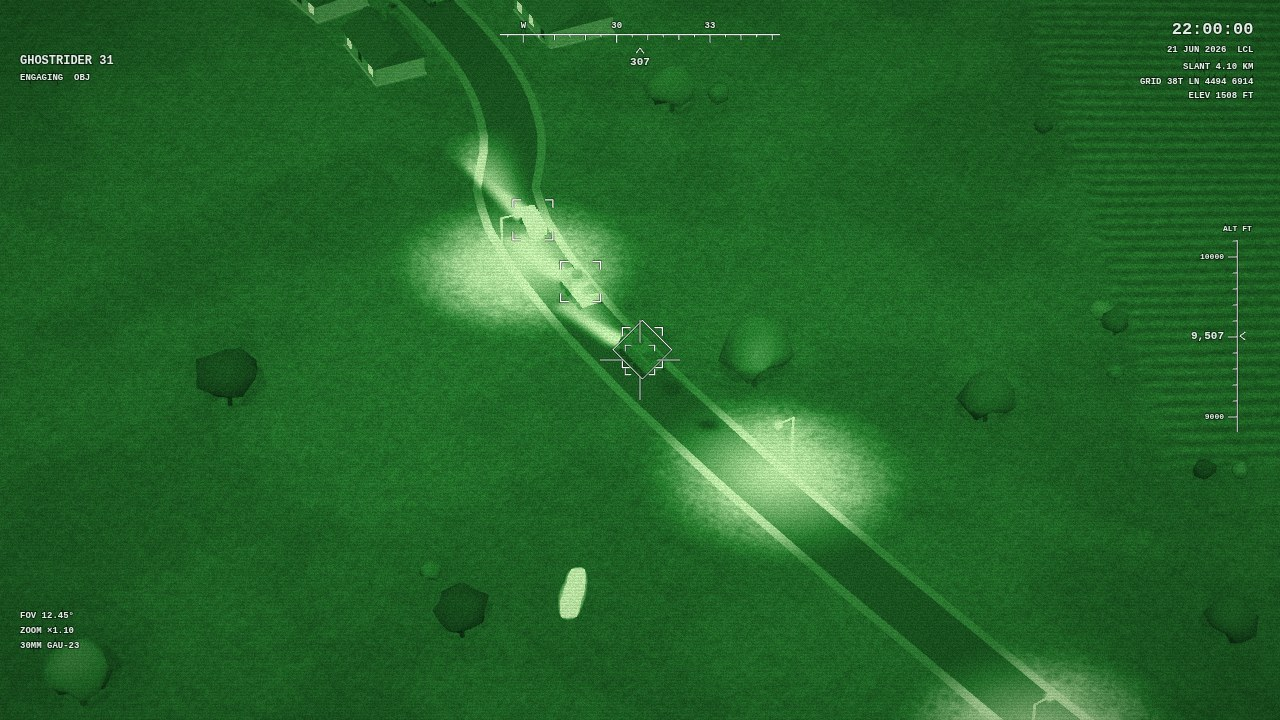
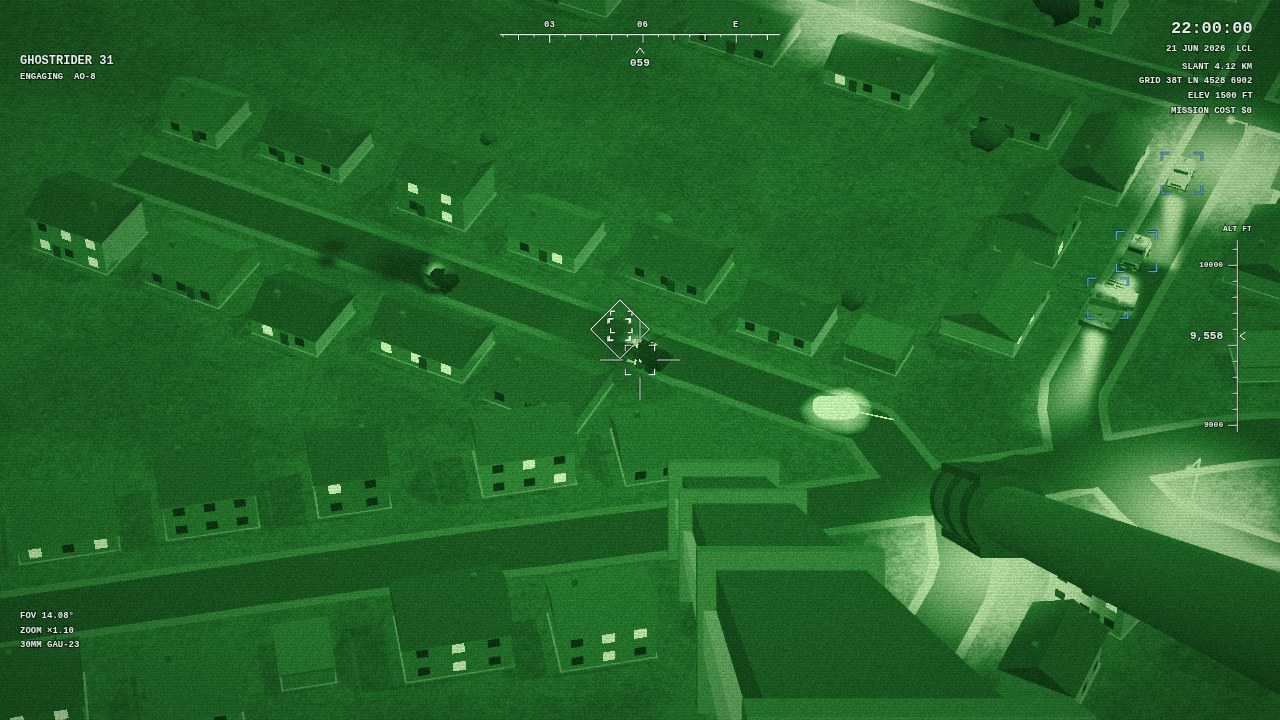
The Workshop preview and the README's screenshots made again; the review sheets fixed: a mode set on a sheet is set as by a click (the auto vision turned it back: the HUD sheet's night frames were white-hot), the HUD sheet picks the nearest track when none is round the start; README and CLAUDE.md br

diff --git a/tools/preview.spec.js b/tools/preview.spec.js
@@ -1,6 +1,7 @@
 // Review sheets for the current stage → test-results/: layout-maps.png (top-down maps of 4 seeds), layout-spots-<seed>.png
 // (stills of the town, a village, the station, a bridge, a lake, fields, a farm, the line), layout-town.png (the town in
 // four modes, day and night), layout-metrics.json (generation time, draw calls)
+// A mode set here is set as by a click ((SENSOR.manual = true, SENSOR).set): else the auto vision turns it back at the next step (white-hot at night).
 const { test } = require('../tests/support/harness');
 const fs = require('fs'), path = require('path');
 const OUT = path.join(__dirname, '..', 'test-results');
@@ -85,7 +86,7 @@ test('town in four modes', async ({ wp }) => {
     const W = 960, H = 540, c = document.createElement('canvas'); c.width = W * 2; c.height = H * 2; const g = c.getContext('2d'), [x, z] = LAYOUT.spots().town;
     CAM_TGT.set(x + 40, groundH(x + 40, z + 30), z + 30); CFG.zoom = 80; updateCamera();
     [['tv', 11], ['wh', 11], ['nv', 23.5], ['tv', 23.5]].forEach(([m, h], i) => {
-      CFG.fixedHour = h; SENSOR.set(m); updateEnvironment(); renderFrame(); g.drawImage(renderer.domElement, (i % 2) * W, (i >> 1) * H, W, H);
+      CFG.fixedHour = h; (SENSOR.manual = true, SENSOR).set(m); updateEnvironment(); renderFrame(); g.drawImage(renderer.domElement, (i % 2) * W, (i >> 1) * H, W, H);
       g.font = '600 18px Consolas, monospace'; g.fillStyle = '#000'; g.fillRect((i % 2) * W + 12, (i >> 1) * H + 12, 170, 30); g.fillStyle = '#fff'; g.fillText(`${SENSOR_LABEL[m]} ${h < 20 ? 'DAY' : 'NIGHT'}`, (i % 2) * W + 22, (i >> 1) * H + 33);
     });
     return c.toDataURL('image/png');
@@ -119,7 +120,8 @@ async function sheet(wp, shots, cols, name) {
   }, [shots, cols]));
 }
 const aimAtDummies = () => {
-  const t = TRACKS.filter(t => Math.hypot(t.obj.position.x - GUNSHIP.home.x, t.obj.position.z - GUNSHIP.home.z) < 300).sort((a, b) => (a.side === 'enemy') - (b.side === 'enemy'))[0];
+  const d = o => Math.hypot(o.obj.position.x - GUNSHIP.home.x, o.obj.position.z - GUNSHIP.home.z), near = TRACKS.filter(o => d(o) < 300);   // (the nearest track to the start, an ally first; none within 300 m: the nearest at all)
+  const t = (near.length ? near.sort((a, b) => (a.side === 'enemy') - (b.side === 'enemy')) : TRACKS.slice().sort((a, b) => d(a) - d(b)))[0];
   const e = TRACKS.find(o => o.side === 'enemy' && Math.hypot(o.obj.position.x - t.obj.position.x, o.obj.position.z - t.obj.position.z) < 160);
   const p = e ? t.obj.position.clone().lerp(e.obj.position, 0.5) : t.obj.position;
   GUNSHIP.look.copy(p); GUNSHIP.aim.copy(p); GUNSHIP.aimS.copy(p); GUNSHIP.vel.set(0, 0, 0); GUNSHIP.nextWander = 1e9; CFG.zoom = e ? 60 : 100; __t.sim(2);
@@ -130,7 +132,7 @@ test('hud in four modes', async ({ wp }) => {
   await wp.run(`(${aimAtDummies})()`);
   const shots = [];
   for (const [m, h, wpn] of [['tv', 11, 'g25'], ['wh', 11, 'h105'], ['nv', 23.5, 'hf'], ['bh', 23.5, 'rail']]) {
-    await wp.run(([m, h, wpn]) => { CFG.fixedHour = h; SENSOR.set(m); HUD.markModes(); ARMS.select(wpn); HUD.markArms(); updateEnvironment(); __t.sim(3); HUD.domT = 0; __t.render(); }, [m, h, wpn]);
+    await wp.run(([m, h, wpn]) => { CFG.fixedHour = h; (SENSOR.manual = true, SENSOR).set(m); HUD.markModes(); ARMS.select(wpn); HUD.markArms(); updateEnvironment(); __t.sim(3); HUD.domT = 0; __t.render(); }, [m, h, wpn]);
     shots.push((await wp.page.screenshot()).toString('base64'));
   }
   await sheet(wp, shots, 2, 'hud-modes.png');
@@ -185,7 +187,7 @@ test('units lineup', async ({ wp }) => {
   });
   const shots = [];
   for (const [m, zoom] of [['tv', 70], ['wh', 70], ['tv', 220], ['wh', 220]]) {
-    await wp.run(([m, zoom]) => { const c = window.__L.c; SENSOR.set(m); HUD.markModes(); updateEnvironment(); GUNSHIP.look.set(c[0], groundH(c[0], c[1]), c[1]); GUNSHIP.aim.copy(GUNSHIP.look); GUNSHIP.ctr.copy(GUNSHIP.look); GUNSHIP.aimS.copy(GUNSHIP.look); GUNSHIP.vel.set(0, 0, 0); CFG.zoom = zoom; __t.sim(2.5); __t.render(); }, [m, zoom]);
+    await wp.run(([m, zoom]) => { const c = window.__L.c; (SENSOR.manual = true, SENSOR).set(m); HUD.markModes(); updateEnvironment(); GUNSHIP.look.set(c[0], groundH(c[0], c[1]), c[1]); GUNSHIP.aim.copy(GUNSHIP.look); GUNSHIP.ctr.copy(GUNSHIP.look); GUNSHIP.aimS.copy(GUNSHIP.look); GUNSHIP.vel.set(0, 0, 0); CFG.zoom = zoom; __t.sim(2.5); __t.render(); }, [m, zoom]);
     shots.push((await wp.page.screenshot()).toString('base64'));
   }
   await sheet(wp, shots, 2, 'units-lineup.png');
@@ -201,8 +203,8 @@ test('patrols', async ({ wp }) => {
   await at(() => { const P = ALLIES.posts[0]; P.timer = 0; __t.sim(40, {}); CFG.zoom = 100; __follow(P.col.u[0].obj); __t.sim(0.05); __t.render(); });
   await at(() => { const h = ALLIES.helis[0]; h.timer = 0; for (let i = 0; i < 200 && h.state !== 'fly'; i++) __t.sim(0.5); __t.sim(4); CFG.zoom = 90; const up = h.pos.y - groundH(h.pos.x, h.pos.z); __follow({ x: h.pos.x - Math.cos(camAz) * up, z: h.pos.z - Math.sin(camAz) * up }); __t.sim(0.05); __t.render(); });
   await at(() => { const s = ALLIES.squads[0].m[1]; CFG.zoom = 230; __follow(s); __t.sim(0.05); __t.render(); });
-  await at(() => { CFG.fixedHour = 23.5; SENSOR.set('nv'); HUD.markModes(); updateEnvironment(); const o = LAYOUT.outposts[0]; CFG.zoom = 80; __follow({ x: o.x, z: o.z }); __t.sim(0.05); __t.render(); });
-  await at(() => { SENSOR.set('wh'); HUD.markModes(); updateEnvironment(); const P = ALLIES.posts[0]; CFG.zoom = 110; __follow(P.col.u[0].obj); __t.sim(0.05); __t.render(); });
+  await at(() => { CFG.fixedHour = 23.5; (SENSOR.manual = true, SENSOR).set('nv'); HUD.markModes(); updateEnvironment(); const o = LAYOUT.outposts[0]; CFG.zoom = 80; __follow({ x: o.x, z: o.z }); __t.sim(0.05); __t.render(); });
+  await at(() => { (SENSOR.manual = true, SENSOR).set('wh'); HUD.markModes(); updateEnvironment(); const P = ALLIES.posts[0]; CFG.zoom = 110; __follow(P.col.u[0].obj); __t.sim(0.05); __t.render(); });
   await sheet(wp, shots, 3, 'units-patrols.png');
 });
 
@@ -214,11 +216,11 @@ test('battle', async ({ wp }) => {
   const shots = [], snap = async () => shots.push((await wp.page.screenshot()).toString('base64')), at = async (fn, arg) => { await wp.run(fn, arg); await snap(); };
   await wp.run(`window.__shot = ${afterShot.toString()}`);
   await at(() => { __t.sim(5.5, { audio: true }); if (BATTLE.base) GUNSHIP.goTo({ n: 'obj', x: BATTLE.base.x, z: BATTLE.base.z }); for (let i = 0; i < 600 && GUNSHIP.state === 'transit'; i++) __t.sim(0.05, { audio: true }); __t.sim(1.5, { audio: true }); __shot(); });
-  await at(() => { __t.sim(8, { audio: true }); SENSOR.set('wh'); HUD.markModes(); updateEnvironment(); __shot(); });
-  await at(() => { __t.sim(25, { audio: true }); SENSOR.set('tv'); HUD.markModes(); updateEnvironment(); __shot(); });
-  await at(() => { __t.sim(60, { audio: true }); SENSOR.set('bh'); HUD.markModes(); updateEnvironment(); __shot(); });
-  await at(() => { __t.sim(40, { audio: true }); CFG.fixedHour = 23.5; SENSOR.set('nv'); HUD.markModes(); updateEnvironment(); __shot(); });
-  await at(() => { CFG.fixedHour = 11; SENSOR.set('tv'); HUD.markModes(); updateEnvironment(); __t.sim(30, { audio: true }); __t.sim(9); __t.render(); });   // the music has stopped: they leave
+  await at(() => { __t.sim(8, { audio: true }); (SENSOR.manual = true, SENSOR).set('wh'); HUD.markModes(); updateEnvironment(); __shot(); });
+  await at(() => { __t.sim(25, { audio: true }); (SENSOR.manual = true, SENSOR).set('tv'); HUD.markModes(); updateEnvironment(); __shot(); });
+  await at(() => { __t.sim(60, { audio: true }); (SENSOR.manual = true, SENSOR).set('bh'); HUD.markModes(); updateEnvironment(); __shot(); });
+  await at(() => { __t.sim(40, { audio: true }); CFG.fixedHour = 23.5; (SENSOR.manual = true, SENSOR).set('nv'); HUD.markModes(); updateEnvironment(); __shot(); });
+  await at(() => { CFG.fixedHour = 11; (SENSOR.manual = true, SENSOR).set('tv'); HUD.markModes(); updateEnvironment(); __t.sim(30, { audio: true }); __t.sim(9); __t.render(); });   // the music has stopped: they leave
   await sheet(wp, shots, 3, 'battle.png');
 });
 /* tracers: a moment with the most of the ground units' tracers in the frame, by day (TV), at night (NV) and in white-hot; the
@@ -230,7 +232,7 @@ test('tracers', async ({ wp }) => {
   const full = [], close = [];
   for (const [mode, hour] of [['tv', 11], ['nv', 23.5], ['wh', 11]]) {
     const at = await wp.run(([mode, hour]) => {
-      CFG.fixedHour = hour; SENSOR.manual = true; SENSOR.set(mode); HUD.markModes(); updateEnvironment(); __t.sim(8, { audio: true });
+      CFG.fixedHour = hour; (SENSOR.manual = true, SENSOR).set(mode); HUD.markModes(); updateEnvironment(); __t.sim(8, { audio: true });
       const mine = () => FX.tracers.items.filter(it => it.on && it.unit && BATTLE.inFrame(it.p));
       for (let i = 0; i < 2400; i++) { __t.sim(0.05, { audio: true }); if (mine().length >= 4) break; }
       __t.render(); const m = mine(); let x = 0, y = 0; for (const it of m) { const n = VIEW.ndc(it.p); x += n.x; y += n.y; }
@@ -275,7 +277,7 @@ test('weather', async ({ wp }) => {
   await wp.goto('?seed=11&hour=11&season=summer&weather=clear'); await wp.run(`(${fight})()`);
   await wp.run(() => { AA.nextGun = 0; for (let i = 0; i < 400 && !AA.bursts.length; i++) __t.sim(0.05, { audio: true }); __t.sim(0.75, { audio: true }); __t.render(); }); await snap();
   await wp.run(() => { const u = AA.source(true) || AA.source(false); AA.launch(u); __t.sim(1.5, { audio: true }); __t.render(); }); await snap();
-  await wp.run(() => { __t.sim(0.9, { audio: true }); SENSOR.set('wh'); HUD.markModes(); updateEnvironment(); __t.render(); }); await snap();
+  await wp.run(() => { __t.sim(0.9, { audio: true }); (SENSOR.manual = true, SENSOR).set('wh'); HUD.markModes(); updateEnvironment(); __t.render(); }); await snap();
   await sheet(wp, shots, 3, 'weather.png');
 });
 
@@ -296,7 +298,7 @@ test('lighting', async ({ wp }) => {
   await wp.goto('?seed=11&hud=0&weather=clear&clouds=0&hour=12&season=summer');
   await wp.run(() => { __t.sim(5.5, { audio: true }); if (BATTLE.base) GUNSHIP.goTo({ n: 'obj', x: BATTLE.base.x, z: BATTLE.base.z }); for (let i = 0; i < 600 && GUNSHIP.state === 'transit'; i++) __t.sim(0.05, { audio: true }); const n = BATTLE.stat.shots; for (let i = 0; i < 400 && BATTLE.stat.shots < n + 2; i++) __t.sim(0.05, { audio: true }); __t.sim(0.4, { audio: true }); __t.render(); }); await snap();
   await wp.run(() => { CFG.fixedHour = 23.5; updateEnvironment(); const n = BATTLE.stat.shots; for (let i = 0; i < 400 && BATTLE.stat.shots < n + 1; i++) __t.sim(0.05, { audio: true }); __t.sim(0.4, { audio: true }); __t.render(); }); await snap();
-  await wp.run(() => { SENSOR.set('wh'); updateEnvironment(); const n = BATTLE.stat.shots; for (let i = 0; i < 400 && BATTLE.stat.shots < n + 1; i++) __t.sim(0.05, { audio: true }); __t.sim(0.4, { audio: true }); __t.render(); }); await snap();
+  await wp.run(() => { (SENSOR.manual = true, SENSOR).set('wh'); updateEnvironment(); const n = BATTLE.stat.shots; for (let i = 0; i < 400 && BATTLE.stat.shots < n + 1; i++) __t.sim(0.05, { audio: true }); __t.sim(0.4, { audio: true }); __t.render(); }); await snap();
   await sheet(wp, shots, 3, 'lighting.png');
 });
 
@@ -309,8 +311,8 @@ test('night lights', async ({ wp }) => {
   await wp.run(`window.__follow = ${follow.toString()}`);
   await at(() => { CFG.zoom = 70; __t.sim(2); __t.render(); });
   await at(() => { const P = ALLIES.posts[0]; P.timer = 0; __t.sim(40, {}); CFG.zoom = 110; __follow(P.col.u[0].obj); __t.sim(0.05); __t.render(); });
-  await at(() => { SENSOR.set('nv'); HUD.markModes(); updateEnvironment(); CFG.zoom = 150; __t.sim(0.05); __t.render(); });
-  await at(() => { SENSOR.set('tv'); HUD.markModes(); updateEnvironment(); const h = ALLIES.helis[0]; h.timer = 0; for (let i = 0; i < 200 && h.state !== 'fly'; i++) __t.sim(0.5); __t.sim(4); h.strobe = 0; CFG.zoom = 110; const up = h.pos.y - groundH(h.pos.x, h.pos.z); __follow({ x: h.pos.x - Math.cos(camAz) * up, z: h.pos.z - Math.sin(camAz) * up }); __t.sim(0.05); __t.render(); });
+  await at(() => { (SENSOR.manual = true, SENSOR).set('nv'); HUD.markModes(); updateEnvironment(); CFG.zoom = 150; __t.sim(0.05); __t.render(); });
+  await at(() => { (SENSOR.manual = true, SENSOR).set('tv'); HUD.markModes(); updateEnvironment(); const h = ALLIES.helis[0]; h.timer = 0; for (let i = 0; i < 200 && h.state !== 'fly'; i++) __t.sim(0.5); __t.sim(4); h.strobe = 0; CFG.zoom = 110; const up = h.pos.y - groundH(h.pos.x, h.pos.z); __follow({ x: h.pos.x - Math.cos(camAz) * up, z: h.pos.z - Math.sin(camAz) * up }); __t.sim(0.05); __t.render(); });
   await at(() => { const o = LAYOUT.outposts[0]; CFG.zoom = 60; __follow({ x: o.x, z: o.z }); __t.sim(0.05); __t.render(); });
   await wp.goto('?hour=23.5&seed=11&season=summer&weather=clear&clouds=0&mode=tv&aa=0');
   await wp.run(`window.__follow = ${follow.toString()}`);
@@ -332,8 +334,8 @@ test('big guns', async ({ wp }) => {
   await at(() => { __slew(-120); __t.sim(0.05); __t.render(); });
   await at(() => { __slew(0); CFG.zoom = 60; __t.sim(2); __t.render(); });
   await at(() => { CFG.zoom = 150; __t.sim(2); __t.render(); CFG.zoom = 100; __t.sim(2); });
-  await at(() => { __slew(0); for (let i = 0; i < 5; i++) { GUNS.shot('h105'); __t.sim(0.6); } SENSOR.set('wh'); HUD.markModes(); updateEnvironment(); __t.sim(0.05); __t.render(); });
-  await at(() => { SENSOR.set('tv'); HUD.markModes(); CFG.fixedHour = 23.5; updateEnvironment(); GUNS.shot('rail'); __t.sim(0.03); __t.render(); });
+  await at(() => { __slew(0); for (let i = 0; i < 5; i++) { GUNS.shot('h105'); __t.sim(0.6); } (SENSOR.manual = true, SENSOR).set('wh'); HUD.markModes(); updateEnvironment(); __t.sim(0.05); __t.render(); });
+  await at(() => { (SENSOR.manual = true, SENSOR).set('tv'); HUD.markModes(); CFG.fixedHour = 23.5; updateEnvironment(); GUNS.shot('rail'); __t.sim(0.03); __t.render(); });
   for (const id of ['h105', 'rail']) {
     await wp.goto(`?hour=11&seed=11&season=summer&weather=clear&clouds=0&mode=tv&weapons=${id}&auto=0&aa=0`);
     await at((id) => {
@@ -448,9 +450,9 @@ test('music', async ({ wp }) => {
   await wp.run(`window.__kick = ${onKick.toString()}`);
   await at(() => { __t.sim(5.5, { audio: true }); if (BATTLE.base) GUNSHIP.goTo({ n: 'obj', x: BATTLE.base.x, z: BATTLE.base.z }); for (let i = 0; i < 1200 && GUNSHIP.state === 'transit'; i++) __t.sim(0.05, { audio: true }); __t.sim(12, { audio: true }); __kick(); });
   await at(() => { __t.sim(0.4, { audio: true }); __t.render(); });
-  await at(() => { CFG.fixedHour = 23.5; SENSOR.set('wh'); HUD.markModes(); updateEnvironment(); __t.sim(3, { audio: true }); __kick(); });
+  await at(() => { CFG.fixedHour = 23.5; (SENSOR.manual = true, SENSOR).set('wh'); HUD.markModes(); updateEnvironment(); __t.sim(3, { audio: true }); __kick(); });
   await at(() => { __t.sim(0.4, { audio: true }); __t.render(); });
-  await at(() => { CFG.fixedHour = 11; SENSOR.set('tv'); HUD.markModes(); updateEnvironment(); const n = BATTLE.stat.drops; for (let i = 0; i < 1600 && BATTLE.stat.drops === n; i++) __t.sim(0.05, { audio: true, pauses: true }); __t.sim(0.3, { audio: true, pauses: true }); __t.render(); });
+  await at(() => { CFG.fixedHour = 11; (SENSOR.manual = true, SENSOR).set('tv'); HUD.markModes(); updateEnvironment(); const n = BATTLE.stat.drops; for (let i = 0; i < 1600 && BATTLE.stat.drops === n; i++) __t.sim(0.05, { audio: true, pauses: true }); __t.sim(0.3, { audio: true, pauses: true }); __t.render(); });
   await at(() => { __t.sim(0.9, { audio: true, pauses: true }); __t.render(); });
   console.log('music stat', JSON.stringify(await wp.run(() => BATTLE.stat)));
   await sheet(wp, shots, 2, 'music.png');
@@ -527,7 +529,7 @@ test('vehicles close', async ({ wp }) => {
     window.__raise = () => { for (const g of window.__V) { const m = g.getObjectByName('mg'); if (!m || g !== window.__V[0] && g !== window.__V[1] && g !== window.__V[2]) continue; m.parent.updateWorldMatrix(true, false); const v = m.parent.worldToLocal(camera.position.clone()).sub(m.position); m.rotation.y = Math.atan2(-v.z, v.x); m.rotation.z = Math.atan2(v.y, Math.hypot(v.x, v.z)); } };
   });
   const shots = [];
-  const look = async (i, zoom, mode) => { await wp.run(([i, zoom, mode]) => { const S = LAYOUT.sites[0], p = i < 0 ? { x: S.x, z: S.z } : window.__V[i].position; SENSOR.manual = true; SENSOR.set(mode); HUD.markModes(); updateEnvironment(); GUNSHIP.look.set(p.x, groundH(p.x, p.z), p.z); GUNSHIP.aim.copy(GUNSHIP.look); GUNSHIP.ctr.copy(GUNSHIP.look); GUNSHIP.aimS.copy(GUNSHIP.look); GUNSHIP.vel.set(0, 0, 0); GUNSHIP.nextWander = 1e9; CFG.zoom = zoom; __t.sim(2.5); window.__raise(); __t.render(); }, [i, zoom, mode]); shots.push((await wp.page.screenshot()).toString('base64')); };
+  const look = async (i, zoom, mode) => { await wp.run(([i, zoom, mode]) => { const S = LAYOUT.sites[0], p = i < 0 ? { x: S.x, z: S.z } : window.__V[i].position; (SENSOR.manual = true, SENSOR).set(mode); HUD.markModes(); updateEnvironment(); GUNSHIP.look.set(p.x, groundH(p.x, p.z), p.z); GUNSHIP.aim.copy(GUNSHIP.look); GUNSHIP.ctr.copy(GUNSHIP.look); GUNSHIP.aimS.copy(GUNSHIP.look); GUNSHIP.vel.set(0, 0, 0); GUNSHIP.nextWander = 1e9; CFG.zoom = zoom; __t.sim(2.5); window.__raise(); __t.render(); }, [i, zoom, mode]); shots.push((await wp.page.screenshot()).toString('base64')); };
   await look(-1, 250, 'tv'); await look(-1, 250, 'wh');
   for (let i = 0; i < 6; i++) await look(i, 700, 'tv');
   // a BTR firing up at the aircraft from its roof machine gun (a real unit: the gun turns up, the tracers leave its muzzle)
@@ -536,7 +538,7 @@ test('vehicles close', async ({ wp }) => {
     v.obj.position.set(S.x + 4, groundH(S.x + 4, S.z), S.z); v.yaw = 2.2; v.obj.rotation.set(0, -v.yaw, 0, 'YZX'); v.turret.rotation.y = 0.8;
     v.aaUntil = T + 99; AA.bursts.push({ u: v, wait: 0, n: 400, tick: 0, col: 0xa8ff8a, ox: 16, oy: 6 }); window.__raise = () => {};
   });
-  const fire = async (zoom, mode) => { await wp.run(([zoom, mode]) => { const v = window.__btr; SENSOR.set(mode); HUD.markModes(); updateEnvironment(); GUNSHIP.look.copy(v.pos); GUNSHIP.aim.copy(v.pos); GUNSHIP.ctr.copy(v.pos); GUNSHIP.aimS.copy(v.pos); CFG.zoom = zoom; for (let i = 0; i < 40; i++) { v.aimMG(0.05); __t.sim(0.05); } __t.render(); }, [zoom, mode]); shots.push((await wp.page.screenshot()).toString('base64')); };
+  const fire = async (zoom, mode) => { await wp.run(([zoom, mode]) => { const v = window.__btr; (SENSOR.manual = true, SENSOR).set(mode); HUD.markModes(); updateEnvironment(); GUNSHIP.look.copy(v.pos); GUNSHIP.aim.copy(v.pos); GUNSHIP.ctr.copy(v.pos); GUNSHIP.aimS.copy(v.pos); CFG.zoom = zoom; for (let i = 0; i < 40; i++) { v.aimMG(0.05); __t.sim(0.05); } __t.render(); }, [zoom, mode]); shots.push((await wp.page.screenshot()).toString('base64')); };
   await fire(250, 'tv'); await fire(700, 'tv'); await fire(250, 'wh'); await fire(700, 'bh');
   await sheet(wp, shots, 4, 'vehicles-close.png');
 });
@@ -553,7 +555,7 @@ test('helis close', async ({ wp }) => {
     });
   });
   const shots = [];
-  const look = async (i, zoom, mode) => { await wp.run(([i, zoom, mode]) => { const S = LAYOUT.sites[0], p = i < 0 ? { x: S.x, z: S.z } : window.__V[i].position; SENSOR.manual = true; SENSOR.set(mode); HUD.markModes(); updateEnvironment(); GUNSHIP.look.set(p.x, groundH(p.x, p.z), p.z); GUNSHIP.aim.copy(GUNSHIP.look); GUNSHIP.ctr.copy(GUNSHIP.look); GUNSHIP.aimS.copy(GUNSHIP.look); GUNSHIP.vel.set(0, 0, 0); GUNSHIP.nextWander = 1e9; CFG.zoom = zoom; __t.sim(2.5); __t.render(); }, [i, zoom, mode]); shots.push((await wp.page.screenshot()).toString('base64')); };
+  const look = async (i, zoom, mode) => { await wp.run(([i, zoom, mode]) => { const S = LAYOUT.sites[0], p = i < 0 ? { x: S.x, z: S.z } : window.__V[i].position; (SENSOR.manual = true, SENSOR).set(mode); HUD.markModes(); updateEnvironment(); GUNSHIP.look.set(p.x, groundH(p.x, p.z), p.z); GUNSHIP.aim.copy(GUNSHIP.look); GUNSHIP.ctr.copy(GUNSHIP.look); GUNSHIP.aimS.copy(GUNSHIP.look); GUNSHIP.vel.set(0, 0, 0); GUNSHIP.nextWander = 1e9; CFG.zoom = zoom; __t.sim(2.5); __t.render(); }, [i, zoom, mode]); shots.push((await wp.page.screenshot()).toString('base64')); };
   await look(-1, 250, 'tv'); await look(-1, 250, 'wh');
   for (let i = 0; i < 4; i++) await look(i, 520, 'tv');
   await look(0, 520, 'wh'); await look(2, 520, 'bh');
@@ -629,10 +631,10 @@ test('missiles and flares', async ({ wp }) => {
   });
   await snap();
   await wp.run(() => __t.sim(0.25, { audio: true })); await snap();
-  await wp.run(() => { SENSOR.set('wh'); HUD.markModes(); AA.drop(6); for (let i = 0; i < 3000 && !BATTLE.missiles.length; i++) __t.sim(0.05, { audio: true }); __t.sim(0.4, { audio: true }); }); await snap();
-  await wp.run(() => { SENSOR.set('tv'); HUD.markModes(); const u = UNITS.find(o => o.side === 'enemy' && o.alive && o.kind !== 'struct' && o.kind !== 'heli' && o.kind !== 'inf') || UNITS.find(o => o.side === 'enemy' && o.alive && o.kind === 'inf'); AA.launch(u); __t.sim(1.2, { audio: true }); }); await snap();
-  await wp.run(() => { SENSOR.set('nv'); HUD.markModes(); for (let i = 0; i < 3000 && !BATTLE.missiles.length; i++) __t.sim(0.05, { audio: true }); __t.sim(0.5, { audio: true }); }); await snap();
-  await wp.run(() => { SENSOR.set('tv'); HUD.markModes(); CFG.zoom = 200; for (let i = 0; i < 3000 && !BATTLE.missiles.some(m => m.p > 0.45 && m.p < 0.7); i++) __t.sim(0.05, { audio: true }); }); await snap();   // (zoomed in: the body and its flame)
+  await wp.run(() => { (SENSOR.manual = true, SENSOR).set('wh'); HUD.markModes(); AA.drop(6); for (let i = 0; i < 3000 && !BATTLE.missiles.length; i++) __t.sim(0.05, { audio: true }); __t.sim(0.4, { audio: true }); }); await snap();
+  await wp.run(() => { (SENSOR.manual = true, SENSOR).set('tv'); HUD.markModes(); const u = UNITS.find(o => o.side === 'enemy' && o.alive && o.kind !== 'struct' && o.kind !== 'heli' && o.kind !== 'inf') || UNITS.find(o => o.side === 'enemy' && o.alive && o.kind === 'inf'); AA.launch(u); __t.sim(1.2, { audio: true }); }); await snap();
+  await wp.run(() => { (SENSOR.manual = true, SENSOR).set('nv'); HUD.markModes(); for (let i = 0; i < 3000 && !BATTLE.missiles.length; i++) __t.sim(0.05, { audio: true }); __t.sim(0.5, { audio: true }); }); await snap();
+  await wp.run(() => { (SENSOR.manual = true, SENSOR).set('tv'); HUD.markModes(); CFG.zoom = 200; for (let i = 0; i < 3000 && !BATTLE.missiles.some(m => m.p > 0.45 && m.p < 0.7); i++) __t.sim(0.05, { audio: true }); }); await snap();   // (zoomed in: the body and its flame)
   await sheet(wp, shots, 2, 'missiles-flares.png');
 });
 
@@ -668,7 +670,7 @@ test('reactions', async ({ wp }) => {
     __t.sim(1);
   });
   const scene = async (mode) => {
-    await wp.run((mode) => { SENSOR.set(mode); HUD.markModes(); const v = new Vehicle('apc', 'enemy'); v.obj.position.copy(__at(-6, 4)); window.__v = v; let n = BATTLE.stat.cooks; hurt(v, 1e4); for (let i = 0; i < 200 && BATTLE.stat.cooks === n; i++) __steps(1); __steps(2); }, mode); await snap();   // a pop
+    await wp.run((mode) => { (SENSOR.manual = true, SENSOR).set(mode); HUD.markModes(); const v = new Vehicle('apc', 'enemy'); v.obj.position.copy(__at(-6, 4)); window.__v = v; let n = BATTLE.stat.cooks; hurt(v, 1e4); for (let i = 0; i < 200 && BATTLE.stat.cooks === n; i++) __steps(1); __steps(2); }, mode); await snap();   // a pop
     if (mode === 'tv') {
       await wp.run(() => { COOK.toss = 1; const v = new Vehicle('tank', 'enemy'); v.obj.position.copy(__at(10, -6)); const y0 = v.turret.position.y; hurt(v, 1e4); for (let i = 0; i < 300 && !(v.turret.position.y - y0 > 0.9); i++) __steps(1); COOK.toss = 0.35; }); await snap();   // the turret thrown up
     }

diff --git a/CLAUDE.md b/CLAUDE.md
@@ -377,17 +377,17 @@ The stages ended at 18: later changes are no longer numbered — each is a bulle
   combat; in a fight it works one zone and leaves it only in a quiet part of the music (`ZONE`), the enemy coming to it. Per-weapon zoom. Always looking down: no sky in frame.
 - **Vision**: TV, WH, BH, NVG; a clickable switch on the HUD that is NOT persisted; a property for the default (auto = TV by day, WH at night — the default / autonv = TV by
   day, NVG at night / tv / wh / bh / nv).
-- **HUD**: mode label, callsign (property, default `GHOSTRIDER 31`), compass, altitude ladder, PC clock, the money spent (optional), crosshair per weapon;
+- **HUD**: mode label, callsign (property, default `GHOSTRIDER 31`), compass, altitude ladder, PC clock, the mission cost (optional), a reticle per weapon (the bombs' and the APKWS's drawn on the ground);
   at the bottom a clickable selector of the enabled weapons with cosmetic ammo / reload, kept `CFG.hudBottom` (48 px) above the bottom edge for the Windows taskbar. Screen-fixed corner brackets: allies blue,
   enemies white.
 - **Map**: ~2×2 km generated at start under the splash; seed property (0 = new each launch). Gentle hills, lakes, roads with
   bridges, rail, towns, fields, forests. Ordinary buildings are indestructible; only enemy base structures blow up.
 - **Combat**: allies always exist, losses replaced off screen. Enemies appear with music (5 s of sound), always off screen: columns
-  and a base, the camera goes to the base. Music stops, a 5 s hold, then fire ceases and enemies leave the frame and vanish; a base is removed
+  and a base; the camera stays and the enemy comes to it (the base visited on a transit allowed in a quiet part). Music stops, a 5 s hold, then fire ceases and enemies leave the frame and vanish; a base is removed
   only out of view. Both sides fight each other. Five unit types per side with different models: infantry, tank, APC, car,
   helicopter. Infantry vanish in a dust puff at once; vehicles lie as wrecks, then sink into the ground.
 - **Weapons** (one active; each a property, no limit; first three on by default; optional auto-switching, a click selects a weapon and
-  auto resumes 30 s later, or 3 s after the click once nothing that weapon may hit is left within 250 m of the sensor's point; only fires at what the table allows, allies handle the rest; guns land at once, missiles / bombs on the next beat with a deadline):
+  auto resumes 30 s later, or 3 s after the click once nothing that weapon may hit is left within 250 m of the sensor's point; only fires at what the table allows, allies handle the rest (a blast hurts any enemy round it); guns land at once, missiles / bombs on a beat near the end of their flight, with a deadline):
 
 | Weapon | Infantry | Car | APC | Tank | Helicopter | Beat |
 |---|---|---|---|---|---|---|
@@ -432,12 +432,12 @@ The stages ended at 18: later changes are no longer numbered — each is a bulle
 | `js/weapons.js` | `WEAPONS` (name, zoom factor, reticle, `hits` = the kinds it may hit, `band` = the beat that fires it, `use`, cosmetic rounds / magazine / reload), `ARMS` (the selected weapon, ammunition state) |
 | `js/lights.js` | `LAMPS`: the lamps are additive sprites (one pool refilled every frame); their light is a **map** drawn from above into one 2048² texture round `CAM_TGT` (`LAMP_HALF` m each way, `LAMPS.draw()` from `SENSOR.render`), which every Phong material adds as albedo × map at its world position (`sensorHook`: `uLampMap`, `uLampRect`, `uCamW`). Headlights (a cone, cut at the vehicle ahead), helicopter navigation lights, searchlights on the outposts' towers and the enemy base's bunkers / mast, yard lamps (`OP_LAMPS`, a lamp over each enemy tent / dump), street lamps along paved roads (`LAYOUT.lamps`, poles built in `structures.js`). On from dusk (the laser's red glow at `BATTLE.lasHit`: day and night); nothing on the thermal sensor |
 | `js/guns.js` | `GUNS`: the barrels of the 105 mm and the railgun (each while enabled; two sit side by side along the fuselage, `GUN_MOUNTS`) at the bottom right. A scene of its own with a 40° lens, drawn into `SENSOR.rt` after the world over a cleared depth (`GUNS.render` from `SENSOR.render`), so the post pass treats it like the rest. Its world is fixed to the aircraft (the view at the orbit's centre `CAM_CTR`); its lens turns as the sensor slews off the centre, so looking down lifts the barrels, far off they leave the frame. Lit by the sun / moon and sky turned into that frame; its materials skip the lamps' map (`userData.noLamp`, `customProgramCacheKey 'gun'`). On every shot (`BATTLE.fire` → `GUNS.shot`) recoil, a flash with a point light, gases from the brake; the railgun's slot flashes and glows as it recharges; barrels heat up per shot (thermal). `GUNS.muzzleAt` puts a shot's start on the line of sight through the muzzle on the screen (`BATTLE.muzzle`), so tracers leave the barrel; the guns with no barrel drawn start theirs through a mount just outside the frame's right edge (`GUN_SIDE`, `GUNS.sideAt`, 32 m out: `GUN_SIDE_D`). Programs compiled at start (`GUNS.warm`) |
-| `js/battle.js` | `BATTLE`: the fight's life cycle (start on arming: a base on one of `LAYOUT.sites` + garrison, the camera stays and the first wave comes to it; waves of columns / squads / helicopters out of sight; stand-down: retreat, removal out of sight), units shooting each other (`FIRE`, `VS`), the gunship's fire on the beat (`GUN`: guns, missiles landing on the next beat, laser, railgun; `strike` damages only `hits`; fires only at what is under the reticle), the camera in a fight, the auto-switching (`PREF`), `WRECKS` (cooling stages, sinking), the base's structures (`BASE_MODELS`, `BASE_PLAN`), `BATTLE.log` / `BATTLE.stat` for the tests |
+| `js/battle.js` | `BATTLE`: the fight's life cycle (start on arming: a base on one of `LAYOUT.sites` + garrison, the camera stays and the first wave comes to it; waves of columns / squads / helicopters out of sight; stand-down: retreat, removal out of sight), units shooting each other (`FIRE`, `VS`), the gunship's fire on the beat (`GUN`: guns, missiles and bombs landing on a beat, the CBU-97's submunitions, laser, railgun; `strike` damages what the weapon `hits`, its blast (`SPLASH`) any enemy round it; fires only at what is under the reticle; `doomed`: nothing wasted on what a missile in flight will kill; `spent`: the mission cost), the camera in a fight, the auto-switching (`PREF`), `WRECKS` (cooling stages, sinking), the base's structures (`BASE_MODELS`, `BASE_PLAN`), `BATTLE.log` / `BATTLE.stat` for the tests |
 | `js/weather.js` | `WEATHER`: the kind (clear / rain / snow / fog; auto draws one for the season every 8–15 min) fading in `WEATHER.k`, `light()` (overcast sun, grey haze, fog distances; called from `updateEnvironment`), rain / snow streaks (`drops`, a cold `Tracers` pool round the sensor's point), clouds (clusters of soft sprites wrapped in a square round the sensor's point, filled into `fx.live` + `SpriteFX.flush`; none in a fight); `AA`: tracer bursts and missiles from enemies near the sensor's point up past the lens, flares in reply (`FX.flare`), looks only |
 | `js/audio.js` | `AUD` (level, `heavy`, the arming latch: `combat`, `holding`, `fighting`), `BANDS` beat detection → `BATTLE.onBeat(band, strength)` (units, AA, gunship), `updateArming`, the music's shape (`drive`, `calm` quiet parts, drops → `BATTLE.onDrop`), the tempo (`tempoKick` → `bpm`, `tempo`), the demo beat (`?demo=124` with a quiet part and silent bars, `&pause=0`) |
 | `js/gunship.js` | `GUNSHIP`: districts (towns, spots, farms, roads in the country; `GS_MARGIN` from the edge), a random start, the left orbit, the slew (eased aim + critically damped spring, its stiffness on a target set by the music: `SLEW_MUSIC`, `slewK`), transits (smootherstep, zoom-out arc), `track(p)` for combat; `TRACKS` (what the HUD brackets); the outposts are districts too |
-| `js/hud.js` | `HUD`: a 2D canvas over the picture (compass, altitude ladder, clock, grid, reticle per weapon, fixed-size brackets) + DOM for the clicks (`#modes`, `#arms`); sizes follow window height × `CFG.hudScale` (`--hs` in CSS) |
-| `js/main.js` | scene init, camera (the aircraft circles `CAM_CTR`, the sensor looks at `CAM_TGT`: slewing turns the line of sight, the lens keeps the frame's size at any range; `clampFrame`: the whole frame stays on the map, measured down to `MAP.lo`), `VIEW`, `updateEnvironment`, `fitShadow`, main loop |
+| `js/hud.js` | `HUD`: a 2D canvas over the picture (compass, altitude ladder, clock, grid, the mission cost, reticle per weapon (the GBU-39's, CBU-97's and APKWS's drawn on the ground: `onGround`), fixed-size brackets, the locks) + DOM for the clicks (`#modes`, `#arms`); its words stamped from a cache (`HUD.word`); sizes follow window height × `CFG.hudScale` (`--hs` in CSS) |
+| `js/main.js` | scene init, camera (the aircraft circles `CAM_CTR`, the sensor looks at `CAM_TGT`: slewing turns the line of sight, the lens keeps the frame's size at any range; `clampFrame`: the whole frame stays on the map, measured down to `MAP.lo`), `VIEW`, `updateEnvironment`, `fitShadow`, main loop (`step` per 0.05 s at most; `renderFrame` once a frame: `frameFx` builds the effects' buffers and the lamps) |
 | `js/properties.js` | `WE_PROPERTIES`: generated from `project.json` by `tools/gen_properties.py` — never edit by hand; after changing a property in `project.json` run `python tools/gen_properties.py` (a test checks they agree) |
 | `js/settings.js` | the settings drawer in a normal browser (not in WE, not under automated tests unless `?cfg`): every property through `wallpaperPropertyListener`, kept in `localStorage`; the demo beat and an audio file player (`FILE_AUDIO`) for music |
 | `project.json` | Wallpaper Engine: title, description, `preview.gif`, `supportsaudioprocessing`, the properties (orders by group: 1–9 sensor & HUD, 10–19 time & weather, 20–29 weapons `w_<id>`, 30–39 fight & music, 40–49 map & quality). `applyUserProperties` (main.js) handles each; the URL's test parameters win; a new seed reloads |

diff --git a/README.md b/README.md
@@ -52,8 +52,8 @@ fullscreen apps by default.
   helicopters, and builds a base on a cleared site. The camera stays where it is and they come to it; it moves to the base or
   another fight only in a quiet part of the music. They keep coming: a wrecked base is soon rebuilt, and when nothing is left
   in view the next ones are called in at once.
-- **The allies** are always out: garrisons in walled outposts, patrols, helicopters; in a fight they drive to the base
-  and fight it out. Both sides shoot at each other.
+- **The allies** are always out: garrisons in walled outposts, patrols, helicopters; in a fight the garrisons sortie to the
+  enemy base, and their reinforcements come where the sensor looks. Both sides shoot at each other.
 - **The gunship fires on the beat**, only at what is under the reticle and only at what its weapon may hit:
 
 | Weapon | Infantry | Car | APC | Tank | Helicopter | Beat |
@@ -133,7 +133,7 @@ fullscreen apps by default.
 
 ## Properties
 
-Sensor & HUD (vision mode, zoom, orbit speed, transits, callsign, HUD scale and bottom space, the money spent), time & weather (PC clock or
+Sensor & HUD (vision mode, zoom, orbit speed, transits, callsign, HUD scale and bottom space, the mission cost), time & weather (PC clock or
 a fixed hour, season, weather, clouds), every weapon and the automatic switching, the fight (audio sensitivity, how often
 it fires, enemy forces, allied reinforcements, anti-aircraft fire), the map seed, shadows and quality.
 
